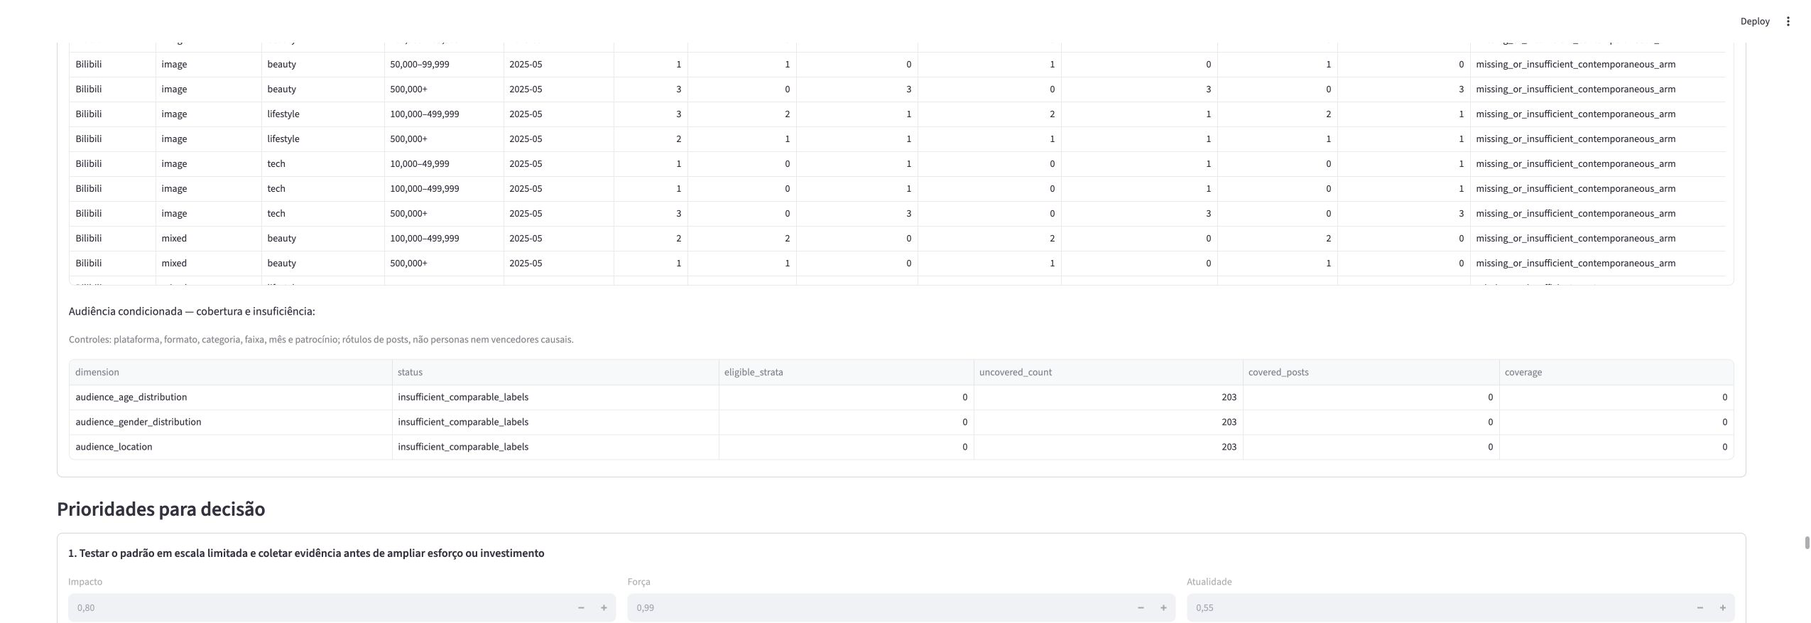
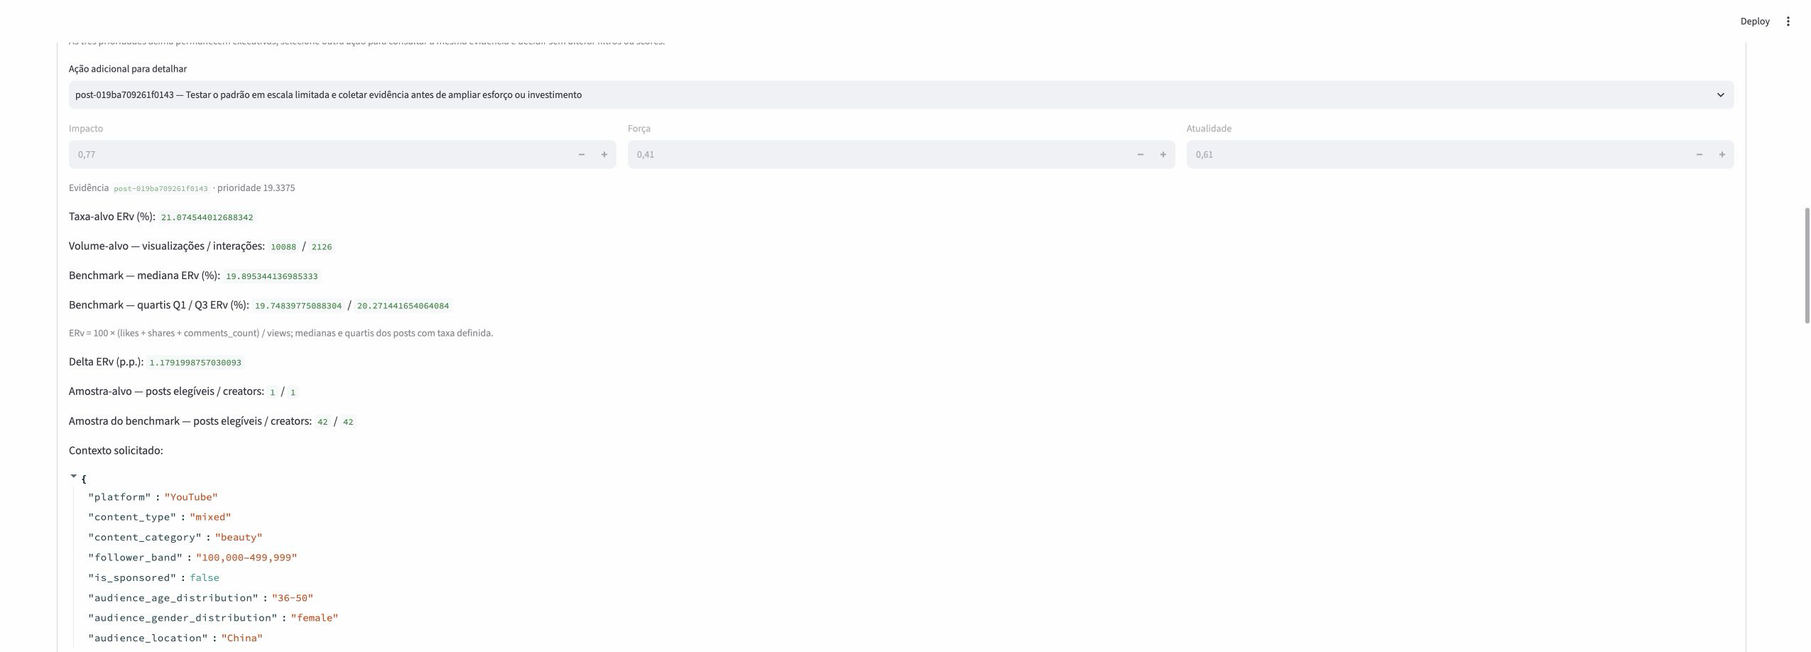
docs(004): consolidate pass 4 acceptance

diff --git a/submissions/luis-roquette/solution/004-social/SPEC.md b/submissions/luis-roquette/solution/004-social/SPEC.md
@@ -8,7 +8,7 @@ title: Implementar cockpit decisório de social media
 
 - A revisão humana da SPEC foi registrada, a implementação local foi autorizada e as fases S1–S4 foram executadas. O texto abaixo permanece como contrato e registro pré-implementação; verbos no futuro descrevem a intenção original, não o estado atual.
 - Estado verificado: comparação de patrocínio por plataforma, formato, categoria, faixa de creator e **mês-calendário**; hipótese de frequência restrita às semanas ISO completas dentro do mesmo mês/contexto; decisões/outcomes exportados com proveniência própria. Campos extensos usam uma barreira final `export_field`, reconstruída antes das camadas `analysis_field` e `history_field`.
[2 lines of base64/hex data omitted]
 - Datas aceitas são ISO-8601 explícito ou `%m/%d/%y %I:%M %p`, na faixa operacional de 1971-01-01 a 2262-04-10; gramática relativa, timezone desconhecido e inferência são bloqueados com linha/coluna. Inteiros passam por comparação lexical `int64`, inclusive entradas extensas, sem alterar o limite global do Python. Evidência negativa com `C<0,40` recomenda coleta/teste em escala limitada; somente força suficiente permite `review/stop`.
 - O snapshot de decisão preserva alvo, comparador, estatística, unidade, controles, cobertura, força e referências por papel. A observação reaplica o mesmo segmento e só substitui a janela temporal. Fim observado ou execução no futuro ficam `pending`; replay retrospectivo exige relógio explícito e rótulo **SIMULAÇÃO** persistido.
 - CK-01–11 e HR-02–04 possuem evidência independente. **HR-01 permanece pendente** até um Gestor de Social Media concluir o roteiro cronometrado em até cinco minutos. Isso mantém a Definition of Done integral aberta. Push, PR, merge e deploy não foram autorizados.
@@ -259,7 +259,7 @@ id,platform,content_id,creator_id,creator_name,content_url,content_type,content_
 
 Campos obrigatórios e não vazios: `id`, `platform`, `content_id`, `creator_id`, `content_type`, `content_category`, `post_date`, `views`, `likes`, `shares`, `comments_count`, `follower_count`, `is_sponsored`, `audience_age_distribution`, `audience_gender_distribution`, `audience_location`. Os onze campos restantes são opcionais para o motor; se ausentes, registrar sua ausência, sem inventar conteúdo. Texto livre não é executado nem interpretado como HTML. `content_length` pode ser exposto como valor original, mas não será chamado de segundos/palavras sem definição confirmada da unidade.
 
-Aceitar CSV UTF-8/UTF-8-BOM, separado por vírgula, até 50 MiB. Bloquear arquivo vazio, cabeçalhos duplicados, linhas malformadas, métricas ausentes/não finitas/negativas/não inteiras, flags fora de `TRUE/FALSE` ou `true/false`, datas inválidas e identidades repetidas. `id` e `(platform, content_id)` são únicos dentro do arquivo; duplicatas idênticas também bloqueiam, pois dobrariam volumes. Os IDs são strings opacas. Inteiros são validados lexicalmente contra `int64`: zeros à esquerda não alteram a comparação, entradas arbitrariamente longas falham de forma determinística e o limite global de conversão do Python não é alterado. A conversão explícita de flag e de data não muda a semântica original. Aceitar somente o formato observado `%m/%d/%y %I:%M %p` ou ISO-8601 explícito, preservando nanossegundos e offsets válidos; datas relativas, zonas desconhecidas e gramática inferida falham com linha/coluna. A faixa operacional é 1971-01-01 a 2262-04-10. Datas sem timezone permanecem no horário informado pela fonte, sem atribuir UTC. Um arquivo não mistura datas com/sem offset; comparação diária usa a data no padrão declarado, mostrado na interface.
+Aceitar CSV UTF-8/UTF-8-BOM, separado por vírgula, até 50 MiB. Bloquear arquivo vazio, cabeçalhos duplicados, linhas malformadas, métricas ausentes/não finitas/negativas/não inteiras, flags fora de `TRUE/FALSE` ou `true/false`, datas inválidas e identidades repetidas. `id` e `(platform, content_id)` são únicos dentro do arquivo; duplicatas idênticas também bloqueiam, pois dobrariam volumes. Os IDs são strings opacas. Inteiros são validados lexicalmente contra `int64`: zeros à esquerda não alteram a comparação, entradas arbitrariamente longas falham de forma determinística e o limite global de conversão do Python não é alterado. A conversão explícita de flag e de data não muda a semântica original. Aceitar somente o formato observado `%m/%d/%y %I:%M %p` ou ISO-8601 explícito, preservando nanossegundos e offsets válidos; datas relativas, zonas desconhecidas e gramática inferida falham com linha/coluna. A faixa operacional é 1971-01-01 a 2262-04-10. Datas sem timezone permanecem no horário informado pela fonte, sem atribuir UTC. Um arquivo não mistura datas com/sem offset; comparação diária usa a data no padrão declarado, mostrado na interface. Limites de semana/mês e hipótese de frequência usam aritmética civil (`date`) e só são convertidos para `Timestamp` depois do clipping ao dataset, evitando overflow no extremo de 2262.
 
 Vocabulário canônico observado: plataformas `Bilibili`, `YouTube`, `Instagram`, `RedNote`, `TikTok`; formatos `video`, `image`, `mixed`, `text`; categorias `beauty`, `lifestyle`, `tech`. Subconjuntos são válidos. Valores novos não vazios podem formar novos grupos, com aviso de cobertura e sem coerção para uma categoria existente. Limites 52.214 linhas/cinco plataformas são reconciliação do snapshot original, não requisito para uploads futuros.
 
@@ -335,9 +335,9 @@ Cada alerta de post usa três volumes observados: `V=views`, `I=interações`, `
 
 `impacto = (N(V)+N(I)+N(F))/3`; `atualidade = 2^(−idade_em_dias/7)`, com idade entre data de referência e data do post, nunca negativa; `prioridade = 100 × impacto × C × atualidade`. Componentes e valores originais aparecem no drill-down/export. O fator C permanece fora de impacto.
 
-Para recomendação agregada, reutilizar a mesma fórmula com `V=Σviews`, `I=Σinterações`, `F=Σmax(follower_count)` por creator do grupo-alvo. A base de normalização é o P95 desses totais em **todos** os grupos não vazios da mesma plataforma, tipo de recomendação e janela-alvo (incluindo os sem efeito favorável), usando o mesmo núcleo/audiência efetiva; editorial usa grupos orgânicos, patrocínio usa grupos patrocinados. A regra P95=0 é a mesma dos posts. Recência usa a data mediana dos posts do grupo-alvo, em dias completos. O C é o da comparação correspondente; não somar scores individuais. A interface explicita que os scores são relativos à plataforma/tipo/unidade de análise e mostra as respectivas bases de normalização, não equivalência de impacto absoluto ou monetário entre itens.
+Para recomendação agregada, reutilizar a mesma fórmula com `V=Σviews`, `I=Σinterações`, `F=Σmax(follower_count)` por creator do grupo-alvo. A base de normalização é o P95 desses totais em **todos** os grupos não vazios da mesma plataforma, tipo de recomendação e janela-alvo (incluindo os sem efeito favorável), usando o mesmo núcleo/audiência efetiva; editorial usa grupos orgânicos, patrocínio usa grupos patrocinados. A regra P95=0 é a mesma dos posts. Recência usa a **mediana temporal real** dos posts do grupo-alvo, inclusive a média dos dois instantes centrais quando a quantidade é par, em dias completos. O C é o da comparação correspondente; não somar scores individuais. A interface explicita que os scores são relativos à plataforma/tipo/unidade de análise e mostra as respectivas bases de normalização, não equivalência de impacto absoluto ou monetário entre itens.
 
-A fila executiva reúne ações de posts e de agregados numa lista, ordenada por `prioridade desc, |ΔER| desc, data_representativa desc, evidence_id asc`. A data representativa é data do post ou mediana das datas do grupo. Deduplicar por `platform + content_type + content_category + follower_band + audiência solicitada + janela-alvo`, independentemente de tipo/flag de patrocínio: fica a ação de maior prioridade, com links para as demais evidências do contexto. Selecionar as três primeiras após deduplicação, sem reservar vaga por tipo; mostrar todos os demais itens no drill-down. Assim uma recomendação agregada pode entrar sem apoiar-se em outlier, e um contexto não ocupa três posições por reaparecer como post, editorial e patrocínio. Pendências com C=0 ficam na lista separada. Mesma fonte, filtros, versão e data de referência reproduzem a ordem; rankings absolutos são secundários. CK-06 inclui um empate post/agregado, uma colisão de contexto e um agregado sem outliers para comprovar essa seleção.
+A fila executiva reúne ações de posts e de agregados numa lista, ordenada por `prioridade desc, |ΔER| desc, data_representativa desc, evidence_id asc`. A data representativa é data do post ou mediana temporal real das datas do grupo. Deduplicar por `platform + content_type + content_category + follower_band + audiência solicitada + janela-alvo`, independentemente de tipo/flag de patrocínio: fica a ação de maior prioridade, com links para as demais evidências do contexto. As três primeiras formam a síntese executiva; a fila deduplicada completa, seus snapshots e scores permanecem no resultado. Todos os demais itens ficam selecionáveis no drill-down e no formulário de decisão sem alterar filtros ou normalização. Assim uma recomendação agregada pode entrar sem apoiar-se em outlier, e um contexto não ocupa três posições por reaparecer como post, editorial e patrocínio. Pendências com C=0 ficam na lista separada. Mesma fonte, filtros, versão e data de referência reproduzem a ordem; rankings absolutos são secundários. CK-06 inclui um empate post/agregado, uma colisão de contexto, quatro ações elegíveis e um agregado sem outliers para comprovar essa seleção.
 
 ### Persistência e observação posterior
 
@@ -361,7 +361,7 @@ Resultado exige arquivo de hash diferente, janela que começa após o fim do bas
 
 Um único panorama apresenta fonte/período, qualidade, prioridades e ranking secundário; seletores nativos e expansores/tabela revelam comparadores e registros sem criar páginas por perfil. Filtros vazios e insuficiência têm estados próprios. Usar rótulos em português, foco de teclado visível, alternativas tabulares para gráficos e texto além de cores. Servidor vinculado a `127.0.0.1`; telemetria Streamlit desativada no comando documentado.
 
-Resumo executivo: HTML estático autocontido, com CSS de impressão A4 e até três prioridades, janela, fonte/hash abreviado, principais evidências/limitações e decisões. O HTML usa escape de todo texto vindo do CSV/gestor, sem scripts ou recursos externos. O teste real de impressão deve comprovar uma página; texto excedente fica no CSV, sem esconder limitação essencial. Sem gerador PDF adicional: o navegador permite imprimir/salvar PDF. Semanal usa semana ISO; mensal usa mês-calendário; ambos registram início/fim e se a cobertura é parcial.
+Resumo executivo: HTML estático autocontido, com CSS de impressão A4 e até três prioridades, janela, fonte/hash abreviado, principais evidências/limitações e decisões. O HTML usa escape de todo texto vindo do CSV/gestor, sem scripts ou recursos externos. O teste real de impressão deve comprovar uma página; texto excedente fica no CSV, sem esconder limitação essencial. Sem gerador PDF adicional: o navegador permite imprimir/salvar PDF. Semanal usa semana ISO; mensal usa mês-calendário. O `scope` exportado preserva `period_mode`, `requested_start`, `requested_end`, limites efetivos e `partial_period`; HTML/Markdown declaram explicitamente janela incompleta quando aplicável. Legados sem esses campos permanecem legíveis, sem inferência retroativa.
 
 CSV único de evidências/decisões usa `record_type` (`summary`, `evidence`, `source_ref`, `decision`, `outcome`) e IDs de junção. Contém hash, método, filtros, métricas/unidades, denominadores, amostras, benchmark/fallback, prioridade e estados. Linhas `source_ref` enumeram IDs que permitem reconstituir o grupo com o CSV original, sem exportar textos privados por padrão. Uma barreira final fragmenta qualquer célula ainda extensa em `export_field`, ligada ao ordinal determinístico da linha-base; a reconstrução de `export_field` ocorre antes de `analysis_field` e `history_field`. Numerais são emitidos como numerais; campos textuais cujo primeiro caractere significativo seja `=`, `+`, `-` ou `@`, ou com controle inicial perigoso, recebem prefixo apóstrofo na exportação, inclusive após reconstrução. A proteção não modifica os cálculos em memória. Escapar HTML/CSV e parametrizar SQL são fronteiras obrigatórias.
 

diff --git a/submissions/luis-roquette/process-log/004-social.md b/submissions/luis-roquette/process-log/004-social.md
@@ -489,6 +489,7 @@ Este ledger registra todas as perguntas, respostas, correções e decisões da d
 - **Atualização da Redundância Passada 1:** I32–I37 corrigiram controle temporal por mês, overflow, parser, taxa indefinida, interoperabilidade do CSV, frequência mensal, proveniência histórica, documentos canônicos e cobertura visual. A contagem vigente é 74 testes; os hashes publicados são `9eebfa0d…` (CSV) e `a8ab9b96…` (Markdown). A nova prova `cockpit-priorities-proof.png` complementa, sem substituir, a captura focal de outcomes.
 - **Atualização da Redundância Passada 2:** I38–I40 elevaram o método a `2.0.0`, fecharam parser/bordas/filtros, publicaram alvo e comparador, responderam audiência condicionada e preservaram snapshot/contrato de observação. O gate vigente é **102/102**; hashes atuais: CSV `017588dfa23f…`, Markdown `c65b42f631c…`, HTML `a90d85f64b20…`. As provas focais de I41 substituem as imagens antigas; HR-01 continua pendente.
 - **Atualização da Redundância Passada 3:** I42–I43 elevaram o contrato ativo a `2.1.0`, fecharam datas e inteiros nas bordas, impediram ação forte sobre sinal negativo fraco e criaram a barreira final `export_field`. O gate vigente é **109/109**; hashes atuais: CSV `3a91736cd23c…`, Markdown `8fd5a1e524b7…`, HTML `a5cf43b65d56…`. A prova focal de fonte/qualidade foi renovada em I44; históricos 2.0.0 permanecem apenas como eventos legíveis e incompatíveis. HR-01 continua pendente.
+- **Atualização da Redundância Passada 4:** a auditoria encontrou quatro lacunas e, portanto, foi **clean=false**: mediana temporal incorreta no editorial, overflow derivado no limite de 2262, perda da fila além do top 3 e ausência de metadados de período parcial no export. Os commits `d2d5c879`, `92a05dc` e `6499f7c` corrigiram os quatro pontos, elevaram o método a `2.2.0` e o gate a **116/116**. Hashes atuais: CSV `9fb2d4dbc769…`, Markdown `4038018d466e…`, HTML `99a493cbc7cd…`. Esta passada reinicia o contador: **0 de 2 passadas limpas**.
 - **Handoff honesto:** automação não é um Gestor de Social Media. HR-01 continua pendente até um operador humano executar upload → explicação → decisão em até cinco minutos. O pacote está tecnicamente reproduzível, mas a Definition of Done integral permanece aberta por esse único gate humano.
 
 ### Matriz de aceitação final
@@ -500,16 +501,16 @@ Este ledger registra todas as perguntas, respostas, correções e decisões da d
 | CK-03 | pass | fallback, IQR, creators e abstinência em `test_analysis.py` |
 | CK-04 | pass | estratos controlados também por mês-calendário, contraparte contemporânea e cobertura explícita; I32–I35 |
 | CK-05 | pass | dimensões, audiência, tempo e falhas em relatório/UI |
-| CK-06 | pass | prioridade recomposta e ordem estável em `test_acceptance.py` |
+| CK-06 | pass | prioridade recomposta com mediana temporal real, ordem estável e fila completa além do top 3; `test_analysis.py`, `test_app.py`, I45 |
 | CK-07 | pass | esforço, público, frequência mensal por semanas completas, patrocínio, creators, interrupção e quick wins; I34–I35 |
-| CK-08 | pass | decisão/revisão preservam texto, snapshot alvo/comparador, IDs por papel, idempotência e reinício; `test_storage.py`, `test_app.py`, I38–I44 |
-| CK-09 | pass | contrato observado reaplica segmento/estatística; relógio real bloqueia futuro, replay é SIMULAÇÃO, método antigo é incompatível e negativo fraco pede coleta; I40–I44 |
-| CK-10 | pass | HTML normal/adversarial em uma A4; CSV reconstruído na ordem `export_field` → `analysis_field` → `history_field`; cinco provas focais fiéis; I39–I44 |
-| CK-11 | pass | app local/teclado, sem conta, API ou ação automática; I26–I44 |
+| CK-08 | pass | decisão/revisão preservam texto, snapshot alvo/comparador, IDs por papel, idempotência, reinício e ação adicional; `test_storage.py`, `test_app.py`, I38–I45 |
+| CK-09 | pass | contrato observado reaplica segmento/estatística; relógio real bloqueia futuro, replay é SIMULAÇÃO, método antigo é incompatível e negativo fraco pede coleta; I40–I45 |
+| CK-10 | pass | HTML normal/adversarial em uma A4; período solicitado/efetivo/parcial exportado; CSV reconstruído na ordem `export_field` → `analysis_field` → `history_field`; cinco provas focais fiéis; I39–I45 |
+| CK-11 | pass | app local/teclado, fila completa, sem conta, API ou ação automática; I26–I45 |
 | HR-01 | **pending** | exige Gestor de Social Media humano cronometrado |
 | HR-02 | pass | `analysis.md` legível sem dashboard e ligado a `evidence.csv` |
-| HR-03 | pass | I01–I44 preservam pesquisa, 24 ondas, decisões, falhas, correções e limites |
-| HR-04 | pass | setup, cinco provas focais, remoção do diário 001 e auditoria Git restrita à submissão; I37 e I44 |
+| HR-03 | pass | I01–I45 preservam pesquisa, 24 ondas, decisões, falhas, correções e limites |
+| HR-04 | pass | setup, cinco provas focais, remoção do diário 001 e auditoria Git restrita à submissão; I37 e I45 |
 
 ### Rubricas finais
 
@@ -705,3 +706,16 @@ Este ledger registra todas as perguntas, respostas, correções e decisões da d
 - **Feedback e limite humano:** esta passagem registra a jornada definida por Luis: o arquiteto compara intenção e obra, o engenheiro corrige a divergência, o feedback exige evidência renovada e o diário preserva a autoria da correção. HR-01 continua reservado ao Gestor de Social Media humano cronometrado; publicação na branch exigida continua sendo gate externo.
 - **Gate limpo S4:** venv novo `/tmp/ai-master-004-s4-r3.7bTO7E`, Python 3.14.2 e `pip check` sem dependências quebradas. A suíte com `PYTHONWARNINGS=error` passou **109/109 em 12,539 s** (21,00 s total), pico RSS 348.815.360 bytes e zero swap. Duas CLIs reais (18,91 s e 21,21 s) produziram CSV/Markdown/HTML idênticos byte a byte; CSV e Markdown também coincidiram com os publicados. Hashes: CSV `3a91736cd23c…`, Markdown `8fd5a1e524b7…`, HTML `a5cf43b65d56…`.
 - **Reconstrução, impressão e escopo:** o leitor padrão independente recompôs 6.700 registros, 679.596 vínculos e 52.214 IDs, com maior campo canônico de 4.500 e limite padrão 131.072. `tests/verify_print.py` gerou normal/adversarial em uma página A4, visualmente sem corte; hashes PDF `fc2c44b7caff…` / `b215c3dea556…`. `compileall`, `git diff --check`, 30 links locais, cinco PNGs e a auditoria de arquivos proibidos passaram. O branch local ainda é `submission/luis-roquette-004-social`; publicar em `submission/luis-roquette` exige autorização externa.
+
+## I45 — Redundância Necessária, passada 4: quatro achados corrigidos — 2026-09-22
+
+- **Estado da passada:** `clean=false`, quatro achados médios e contador reiniciado em **0 de 2 passadas limpas**. O relatório independente em `.specs/scratchpad/redundancy-pass-4-20260922-1212.md` confrontou contrato, código, exports, cinco imagens e probes adversariais; HR-01 e branch de publicação permaneceram corretamente fora da contagem.
+- **R4-01 — mediana temporal:** 100 posts editoriais divididos em dois instantes centrais expuseram o uso do elemento superior: 14/01, recência 1,0 e score 95, em vez da mediana real 11/01, recência 0,742997 e score 70,584729. `d2d5c879` passou a usar a mediana temporal real e elevou `METHOD_VERSION` a `2.2.0`; os IDs canônicos agora são `sponsorship-9bc1a9a0add291a4`, `sponsorship-311c45798ab57cdf` e `sponsorship-d2421615bf5d4277`.
+- **R4-02 — calendário civil:** 60 posts elegíveis em 09/04/2262 derrubavam a frequência ao calcular a segunda-feira seguinte fora do tipo. A correção usa `date` para semana/mês e faz clipping antes de converter para `Timestamp`; post, editorial, patrocínio e UI semanal/mensal nos extremos aceitos têm regressões.
+- **R4-03 — fila completa e probe UI:** quatro contextos elegíveis produziam somente três opções/expanders na UI. A primeira tentativa do probe serializou `False`, que o contrato corretamente rejeitou; repetida com `FALSE`, confirmou a perda. `d2d5c879` preservou `all_recommendations` e snapshots; `92a05dc` adicionou “Outras ações elegíveis”, drill-down e decisão da quarta ação sem alterar filtros ou scores. O CSV canônico recente também apresentou quatro ações, comprovadas no Chrome real.
+- **R4-04 — período parcial:** mês janeiro sobre fonte 01–14 mostrava “cobertura parcial” na UI, mas CSV/HTML/Markdown perdiam modo e janela solicitada. `6499f7c` propagou `period_mode`, `requested_start`, `requested_end` e `partial_period`; semana/mês parciais e intervalo explícito completo fazem round-trip, enquanto eventos legados não recebem metadado inventado.
+- **Jornada construtiva:** o arquiteto encontrou divergências entre o contrato e uma obra já verde; o engenheiro corrigiu cada camada responsável; o feedback do probe UI distinguiu erro da fixture de erro do produto; testes, exports e Chrome decidiram o fechamento técnico. Como houve correções, esta não é uma passada limpa e não avança o goal de redundância.
+- **Provas visuais renovadas:** fonte/qualidade exibe método 2.2.0 (`f557df55016f…`); a quarta ação mostra seletor, componentes e evidência completa (`14f75f4f2128…`); contexto prioritário usa o novo ID 2.2.0 (`f573b65cfe75…`). As três têm 2550×918 px. Snapshot/outcomes 2.0.0 foram preservados como história legível, explicitamente incompatível com 2.2.0.
+- **Gate limpo pós-correção:** venv novo `/tmp/ai-master-004-s4-r4.FOaW4r`, Python 3.14.2 e `pip check` sem dependências quebradas. `PYTHONWARNINGS=error` aprovou **116/116 em 14,704 s** (24,10 s total), pico RSS 379.600.896 bytes e zero swap; mensagens conhecidas de `ScriptRunContext` foram logging, não warnings Python suprimidos. `compileall` e `git diff --check` passaram.
+- **Determinismo e artefatos:** duas CLIs reais (22,98 s e 18,99 s; pico RSS até 566.116.352 bytes; zero swap) produziram os três arquivos idênticos byte a byte, e CSV/Markdown coincidiram com os publicados. CSV: 21.821.815 bytes, `9fb2d4dbc769…`; Markdown: 19.947 bytes, `4038018d466e…`; HTML: 6.681 bytes, `99a493cbc7cd…`.
+- **Reconstrução, impressão e escopo:** o leitor padrão independente recompôs 6.700 registros, 679.596 vínculos e 52.214 IDs; maior campo 4.500, limite padrão 131.072. `verify_print.py` produziu normal/adversarial em uma página A4, inspecionados sem corte; hashes PDF `59bbd7c1b361…` / `1c77b4b744f2…`, incluindo período parcial no adversarial. Trinta links locais, cinco PNGs, escopo Git e arquivos proibidos passaram. HR-01 humano e publicação em `submission/luis-roquette` continuam externos; sem push, PR, deploy ou API paga.

diff --git a/submissions/luis-roquette/solution/004-social/README.md b/submissions/luis-roquette/solution/004-social/README.md
@@ -33,7 +33,9 @@ python submissions/luis-roquette/solution/004-social/analysis.py \
   --report /tmp/analysis.md
 ```
 
[2 lines of base64/hex data omitted]
+
+As três prioridades históricas mantiveram scores e ordem, agora sob IDs 2.2.0: `sponsorship-9bc1a9a0add291a4`, `sponsorship-311c45798ab57cdf` e `sponsorship-d2421615bf5d4277`.
 
 ## Executar o cockpit
 
@@ -60,9 +62,11 @@ O navegador automatizado concluiu esse fluxo técnico, inclusive erro sem perda 
 
 Cada decisão guarda o snapshot exato do motor: alvo, comparador, quartis/fallback, força, contexto e referências. Patrocínio mantém separados os braços e usa mediana das medianas por creator; editorial usa apenas o grupo orgânico definido; alertas preservam post/benchmark e um agregado contextual separado para acompanhamento. A observação posterior reaplica esse contrato à nova fonte; só a janela temporal muda, não categoria, audiência, patrocínio ou estatística. Creators sem taxa definida não satisfazem a amostra mínima.
 
-O histórico mostra o snapshot mesmo sem CSV. Reenviar o mesmo hash verifica referências pelo escopo salvo, inclusive quando a recomendação não está na fila ativa ou os filtros mudaram. `METHOD_VERSION = "2.1.0"` é o contrato ativo. Eventos `1.0.0` e `2.0.0` continuam legíveis, mas são incompatíveis para nova comparação automática e ficam `pending / method_mismatch`. As capturas históricas/outcomes preservadas na submissão registram eventos criados sob 2.0.0; não são apresentadas como nova comparação 2.1.0.
+O histórico mostra o snapshot mesmo sem CSV. Reenviar o mesmo hash verifica referências pelo escopo salvo, inclusive quando a recomendação não está na fila ativa ou os filtros mudaram. `METHOD_VERSION = "2.2.0"` é o contrato ativo. Eventos `1.0.0`, `2.0.0` e `2.1.0` continuam legíveis, mas são incompatíveis para nova comparação automática e ficam `pending / method_mismatch`. As capturas históricas/outcomes preservadas na submissão registram eventos criados sob 2.0.0; não são apresentadas como nova comparação 2.2.0.
 
-A entrada aceita somente ISO-8601 explícito ou `%m/%d/%y %I:%M %p`, dentro de 1971-01-01 a 2262-04-10. Datas relativas, timezone desconhecido e gramática inferida são rejeitados com linha/coluna. Inteiros são provados lexicalmente contra `int64`, sem alterar o limite global do Python. Sinal negativo com força abaixo de 0,40 gera coleta/teste; `review/stop` exige força suficiente.
+A entrada aceita somente ISO-8601 explícito ou `%m/%d/%y %I:%M %p`, dentro de 1971-01-01 a 2262-04-10. Datas relativas, timezone desconhecido e gramática inferida são rejeitados com linha/coluna. Inteiros são provados lexicalmente contra `int64`, sem alterar o limite global do Python. Semanas/meses são calculados como datas civis e convertidos depois do clipping, inclusive no limite superior de 2262. Sinal negativo com força abaixo de 0,40 gera coleta/teste; `review/stop` exige força suficiente.
+
+A recência agregada usa a mediana temporal real, não o elemento central superior. O top 3 permanece como síntese, mas `all_recommendations` preserva a fila deduplicada completa; a UI permite detalhar e decidir ações adicionais sem trocar filtros/scores. Seleções semanal/mensal exportam modo, janela solicitada, janela efetiva e `partial_period` no CSV, HTML e Markdown.
 
 Datas de execução ou fim da observação futuras ficam pendentes (`execution_in_future` / `observation_in_future`); o timestamp enviado não pode adiantar o relógio real. Testes injetam relógio controlado após o fim observado. Para uma demonstração sintética/retrospectiva explícita, use banco separado e defina `SOCIAL_COCKPIT_SIMULATION_NOW=2025-01-22T18:00:00+00:00` ao iniciar o comando Streamlit acima. O app exibe **SIMULAÇÃO / REPLAY RETROSPECTIVO**, e eventos persistem essa marca. Remova a variável ao retornar à produção; simulação não autoriza datas futuras em relação ao relógio controlado.
 
@@ -81,7 +85,7 @@ Para recompor o CSV, reconstrua primeiro linhas `export_field` pelo ordinal dete
 - [SPEC](./SPEC.md)
 - [Diário do processo](../../process-log/004-social.md)
 - [Fonte canônica, método e qualidade](../../process-log/evidence/004/cockpit-source-quality-proof.png)
-- [Audiência condicionada e prioridade](../../process-log/evidence/004/cockpit-audience-priority-proof.png)
+- [Quarta ação, componentes e drill-down](../../process-log/evidence/004/cockpit-audience-priority-proof.png)
 - [Alvo, benchmark, quartis e amostra](../../process-log/evidence/004/cockpit-priority-context-proof.png)
 - [Snapshot histórico e contrato de reenvio pelo mesmo hash](../../process-log/evidence/004/cockpit-history-snapshot-proof.png)
 - [SIMULAÇÃO retrospectiva e futuro pendente](../../process-log/evidence/004/cockpit-outcomes-proof.png)

diff --git a/submissions/luis-roquette/README.md b/submissions/luis-roquette/README.md
@@ -30,17 +30,17 @@ Analisei 52.214 posts de cinco plataformas e construí um cockpit local para con
 - Mediana ERv geral: 19,8992%; ERv ponderado: 19,9035%. As diferenças agregadas entre plataformas, formatos e categorias são pequenas e não justificam redistribuição isolada.
 - Patrocínio: 12 estratos mensais elegíveis, 5.216 sem contraparte/amostra suficiente e cobertura de 1,55897% dos posts, controlando plataforma, formato, categoria, faixa de creator e mês-calendário.
 - Maior associação patrocinada observada: YouTube / video / lifestyle / 500.000+ / abril de 2024, +0,160707 p.p. de ERv; menor: Bilibili / video / lifestyle / 500.000+ / setembro de 2023, −0,136225 p.p. Nenhuma é efeito causal ou ROI.
-- O cockpit mantém posts zero/taxas indefinidas, explica benchmark/amostra/força até as linhas de origem, bloqueia cronologia inválida, registra aceitar/rejeitar/editar e preserva revisões/outcomes após reinício. O CSV conserva proveniência e semântica de cada evento histórico; uma barreira `export_field` fecha qualquer célula extensa antes das camadas reconstruíveis de análise/histórico.
+- O cockpit mantém posts zero/taxas indefinidas, explica benchmark/amostra/força até as linhas de origem, preserva a fila completa além do top 3, bloqueia cronologia inválida, registra aceitar/rejeitar/editar e preserva revisões/outcomes após reinício. O CSV conserva proveniência, período solicitado/efetivo e semântica de cada evento histórico; uma barreira `export_field` fecha qualquer célula extensa antes das camadas reconstruíveis de análise/histórico.
 
-![Fonte canônica, período, método 2.1.0 e diagnóstico de qualidade](./process-log/evidence/004/cockpit-source-quality-proof.png)
+![Fonte canônica, período, método 2.2.0 e diagnóstico de qualidade](./process-log/evidence/004/cockpit-source-quality-proof.png)
 
-![Cobertura condicionada de audiência e primeira prioridade](./process-log/evidence/004/cockpit-audience-priority-proof.png)
+![Quarta ação elegível acessível com componentes, evidência e drill-down sem alterar filtros](./process-log/evidence/004/cockpit-audience-priority-proof.png)
 
 ![Prioridade com taxa-alvo, benchmark, quartis e amostra](./process-log/evidence/004/cockpit-priority-context-proof.png)
 
-![Snapshot histórico após reinício; evento 2.0.0 preservado e legível, mas incompatível com nova comparação 2.1.0](./process-log/evidence/004/cockpit-history-snapshot-proof.png)
+![Snapshot histórico após reinício; evento 2.0.0 preservado e legível, mas incompatível com nova comparação 2.2.0](./process-log/evidence/004/cockpit-history-snapshot-proof.png)
 
-![Histórico 2.0.0: replay observado rotulado SIMULAÇÃO e futuro pendente por observation_in_future; sem nova comparação 2.1.0](./process-log/evidence/004/cockpit-outcomes-proof.png)
+![Histórico 2.0.0: replay observado rotulado SIMULAÇÃO e futuro pendente por observation_in_future; sem nova comparação 2.2.0](./process-log/evidence/004/cockpit-outcomes-proof.png)
 
 ### Recomendações
 
@@ -69,7 +69,7 @@ Analisei 52.214 posts de cinco plataformas e construí um cockpit local para con
 | Codex | Pesquisa, ondas socráticas, SDD, implementação, regressões, documentação e auditoria final |
 | Claude Code | Skill SDD e estruturação inicial dos artefatos de especificação |
 | Chrome automatizado | Validação do upload real, decisões, reinício, erros, downloads e prova visual |
-| Python/Pandas/unittest | Motor determinístico, reconciliação e 109 testes locais |
+| Python/Pandas/unittest | Motor determinístico, reconciliação e 116 testes locais |
 
 ### Workflow
 
@@ -92,7 +92,7 @@ Defini a documentação como parte central da entrega: registrar como o arquitet
 ## Evidências
 
 - [x] [Fonte, método e qualidade](./process-log/evidence/004/cockpit-source-quality-proof.png)
-- [x] [Audiência condicionada e prioridade](./process-log/evidence/004/cockpit-audience-priority-proof.png)
+- [x] [Quarta ação, componentes e drill-down](./process-log/evidence/004/cockpit-audience-priority-proof.png)
 - [x] [Alvo, benchmark e amostra](./process-log/evidence/004/cockpit-priority-context-proof.png)
 - [x] [Snapshot histórico e contrato de reenvio pelo mesmo hash](./process-log/evidence/004/cockpit-history-snapshot-proof.png)
 - [x] [SIMULAÇÃO retrospectiva e futuro pendente](./process-log/evidence/004/cockpit-outcomes-proof.png)

diff --git a/submissions/luis-roquette/solution/004-social/IMPLEMENTATION-PLAN.md b/submissions/luis-roquette/solution/004-social/IMPLEMENTATION-PLAN.md
@@ -4,8 +4,8 @@
 
 - Tasks 1–5 e os checks independentes da Task 6 foram implementados e validados; os checkboxes abaixo registram o estado executado sem apagar o plano original.
 - A comparação de patrocínio controla também `calendar_month`; a frequência usa somente semanas ISO completas dentro do mesmo mês/contexto. O histórico CSV conserva proveniência por evento; a barreira final `export_field` cobre qualquer célula extensa antes de `analysis_field` e `history_field`.
[1 lines of base64/hex data omitted]
-- I42–I43 fecharam gramática/faixa de datas, inteiros extensos, guarda de ação negativa fraca, fragmentação universal de saída e rótulos impressos. Replay retrospectivo é sempre rotulado **SIMULAÇÃO**; futuro permanece `pending / observation_in_future`.
[1 lines of base64/hex data omitted]
+- A Passada 4 corrigiu mediana temporal, aritmética civil/clipping no limite de 2262, preservação da fila completa com drill-down/decisão além do top 3 e metadados de cobertura temporal no export. Replay retrospectivo é sempre rotulado **SIMULAÇÃO**; futuro permanece `pending / observation_in_future`.
 - A implementação local foi autorizada e executada após a revisão humana registrada no diário. **HR-01 continua pendente**; push, PR, merge e deploy continuam não autorizados. A branch atual difere da branch exigida e só será reconciliada no gate de publicação.
 
 > **For agentic workers:** REQUIRED SUB-SKILL: Use `superpowers:subagent-driven-development` (recommended) or `superpowers:executing-plans` to implement this plan task-by-task. Steps use checkbox (`- [ ]`) syntax for tracking.
@@ -203,7 +203,7 @@ Expected: import failure for `analysis`; no test may pass accidentally.
 
 - [x] **Step 5: Implement strict parsing and diagnostics**
 
-In `analysis.py`, define `REQUIRED_COLUMNS`, `OPTIONAL_COLUMNS`, `METRIC_COLUMNS` and `METHOD_VERSION = "2.1.0"`. `load_csv` must (o texto abaixo registra a intenção inicial; I38 substituiu `pandas.read_csv` por interpretação única com `csv.reader`, e I42 tornou datas/números estritos e limitados):
+In `analysis.py`, define `REQUIRED_COLUMNS`, `OPTIONAL_COLUMNS`, `METRIC_COLUMNS` and `METHOD_VERSION = "2.2.0"`. `load_csv` must (o texto abaixo registra a intenção inicial; I38 substituiu `pandas.read_csv` por interpretação única com `csv.reader`, I42 tornou datas/números estritos e a Passada 4 fechou aritmética civil/clipping):
 
 ```python
 source_hash = hashlib.sha256(raw).hexdigest()
